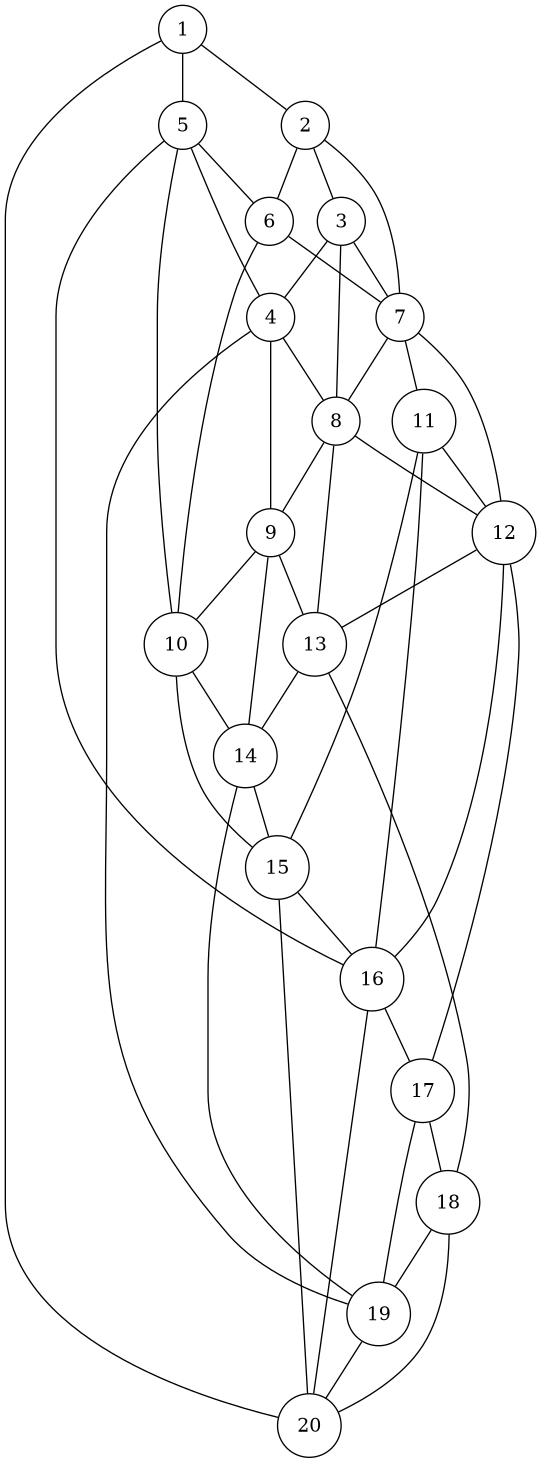
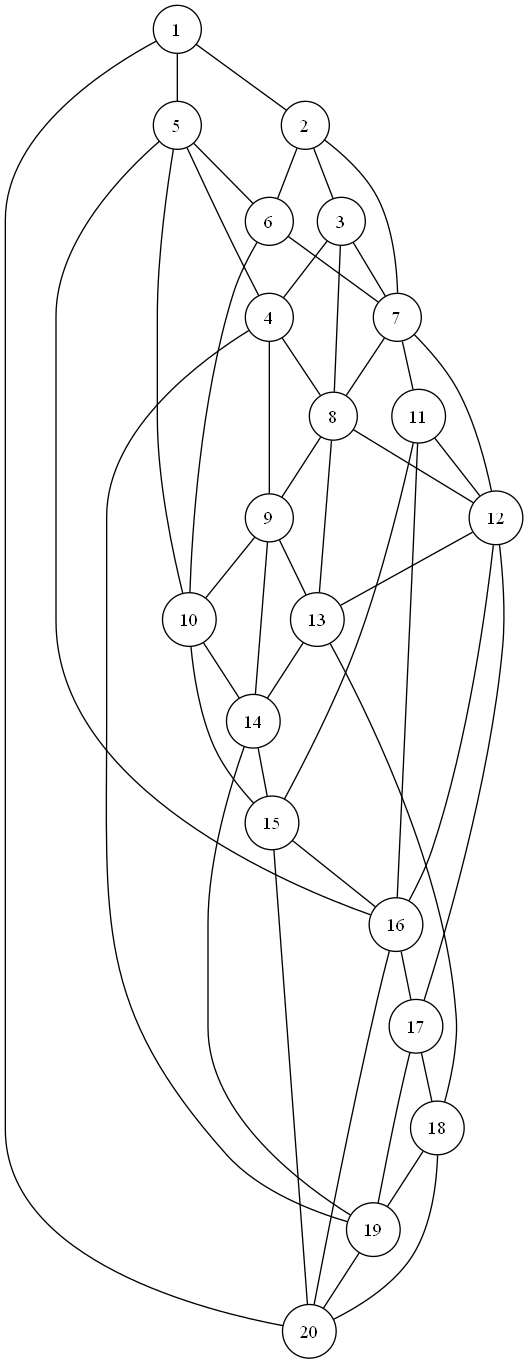
feat: Implementa validação de eulerianidade

diff --git a/internal/euleriano/eulerianidade.go b/internal/euleriano/eulerianidade.go
@@ -3,7 +3,10 @@
 // digrafos. Reusa o nucleo compartilhado em internal/{grafo,algoritmos}.
 package euleriano
 
-import "github.com/PauloFH/grafos-2026/internal/grafo"
+import (
+	"github.com/PauloFH/grafos-2026/internal/algoritmos"
+	"github.com/PauloFH/grafos-2026/internal/grafo"
+)
 
 // Classe indica o resultado da analise de eulerianidade de um grafo/digrafo.
 type Classe int
@@ -58,9 +61,149 @@ type TrilhaEuler struct {
 //     => Caminho; senao => NaoEuleriano.
 //     Reusar algoritmos.EhConexo / algoritmos.BFS e o calculo de grau de
 //     entrada que ja existe em relatorio.FormataGraus.
+
 func Classifica(g *grafo.Grafo) ResultadoEuler {
+
+	if g.Direcionado {
+		return classificaDigrafo(g)
+	}
+
+	return classificaGrafo(g)
+}
+
+func classificaGrafo(g *grafo.Grafo) ResultadoEuler {
+
+	//verificando se é conexo
+	conexo := algoritmos.EhConexo(g)
+
+	// se não for conexo, é não-euleriano
+	if !conexo {
+		return ResultadoEuler{
+			Classe:         NaoEuleriano,
+			Conexo:         false,
+			Desbalanceados: map[string]int{},
+		}
+	}
+
+	var impares []string
+
+	//verificando e contando quantos impares existem
+	for _, v := range g.Vertices {
+
+		if g.GrauVertice(v)%2 != 0 {
+			impares = append(impares, v)
+		}
+	}
+
+	//se não tiver vertice com grau impares é um circuito euleriano
+	if len(impares) == 0 {
+
+		return ResultadoEuler{
+			Classe:         CircuitoEuleriano,
+			Conexo:         true,
+			GrausImpares:   impares,
+			Desbalanceados: map[string]int{},
+			VerticeInicial: g.Vertices[0],
+		}
+	}
+
+	//se tiver dois vertices com graus impares, existe um caminho euleriano
+	if len(impares) == 2 {
+
+		return ResultadoEuler{
+			Classe:         CaminhoEuleriano,
+			Conexo:         true,
+			GrausImpares:   impares,
+			Desbalanceados: map[string]int{},
+			VerticeInicial: impares[0],
+		}
+	}
+
+	//se tiver mais dois vertices com graus impares, não existem nem caminho nem circuito
 	return ResultadoEuler{
 		Classe:         NaoEuleriano,
+		Conexo:         true,
+		GrausImpares:   impares,
 		Desbalanceados: map[string]int{},
+	}
+}
+
+func classificaDigrafo(g *grafo.Grafo) ResultadoEuler {
+
+	conexo := algoritmos.EhConexo(g)
+
+	if !conexo {
+		return ResultadoEuler{
+			Classe:         NaoEuleriano,
+			Conexo:         false,
+			Desbalanceados: map[string]int{},
+		}
+	}
+
+	// Armazena o grau de entrada e saída de cada vértice.
+	entrada := make(map[string]int)
+	saida := make(map[string]int)
+
+	// Calcula grau de saída e grau de entrada
+	for _, v := range g.Vertices {
+
+		saida[v] = len(g.ListaAdj[v])
+
+		for _, destino := range g.ListaAdj[v] {
+			entrada[destino]++
+		}
+	}
+
+	desbalanceados := make(map[string]int)
+
+	var inicio string
+	inicioCount := 0
+	fimCount := 0
+
+	for _, v := range g.Vertices {
+
+		//diferença de entrada e saida
+		diff := saida[v] - entrada[v]
+
+		if diff != 0 {
+			desbalanceados[v] = diff
+		}
+
+		if diff == 1 {
+			inicioCount++
+			inicio = v
+		}
+
+		if diff == -1 {
+			fimCount++
+		}
+	}
+
+	// Circuito Euleriano:
+	// todos os vértices possuem entrada == saída
+	if len(desbalanceados) == 0 {
+		return ResultadoEuler{
+			Classe:         CircuitoEuleriano,
+			Conexo:         true,
+			Desbalanceados: desbalanceados,
+			VerticeInicial: g.Vertices[0],
+		}
+	}
+
+	// Caminho Euleriano:
+	// um vértice com +1 e um vértice com -1
+	if inicioCount == 1 && fimCount == 1 {
+		return ResultadoEuler{
+			Classe:         CaminhoEuleriano,
+			Conexo:         true,
+			Desbalanceados: desbalanceados,
+			VerticeInicial: inicio,
+		}
+	}
+
+	return ResultadoEuler{
+		Classe:         NaoEuleriano,
+		Conexo:         true,
+		Desbalanceados: desbalanceados,
 	}
 }
